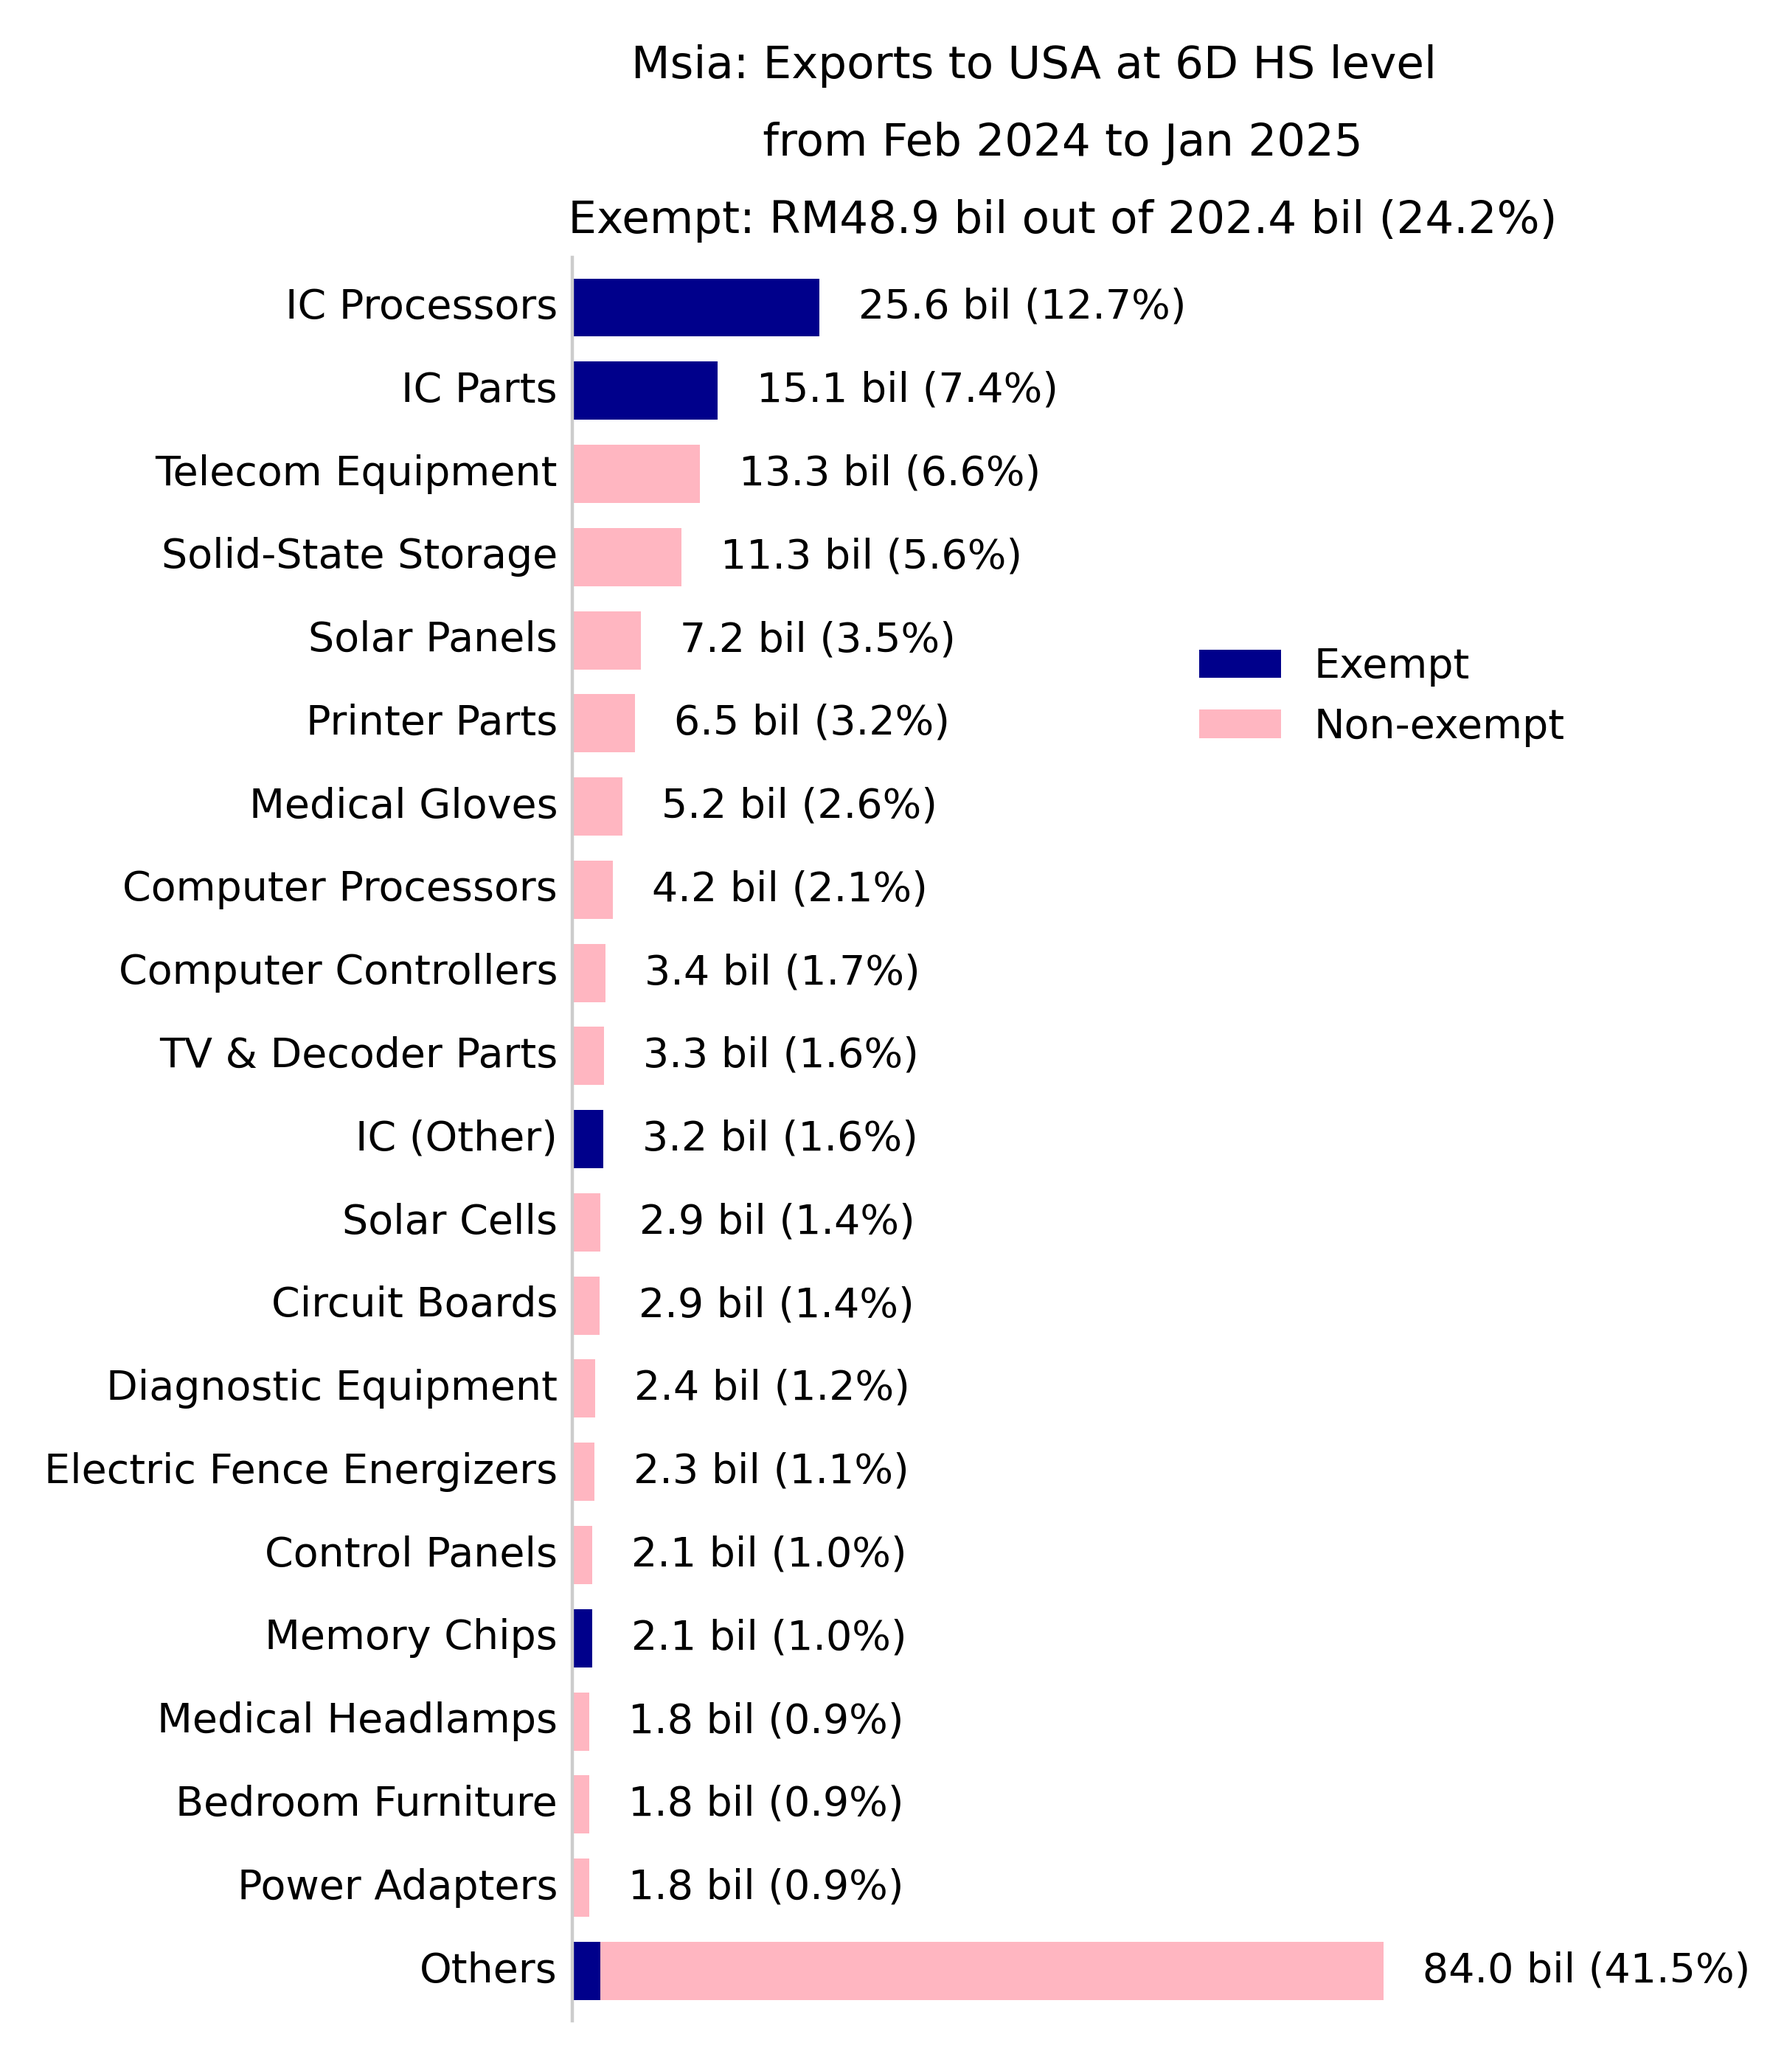
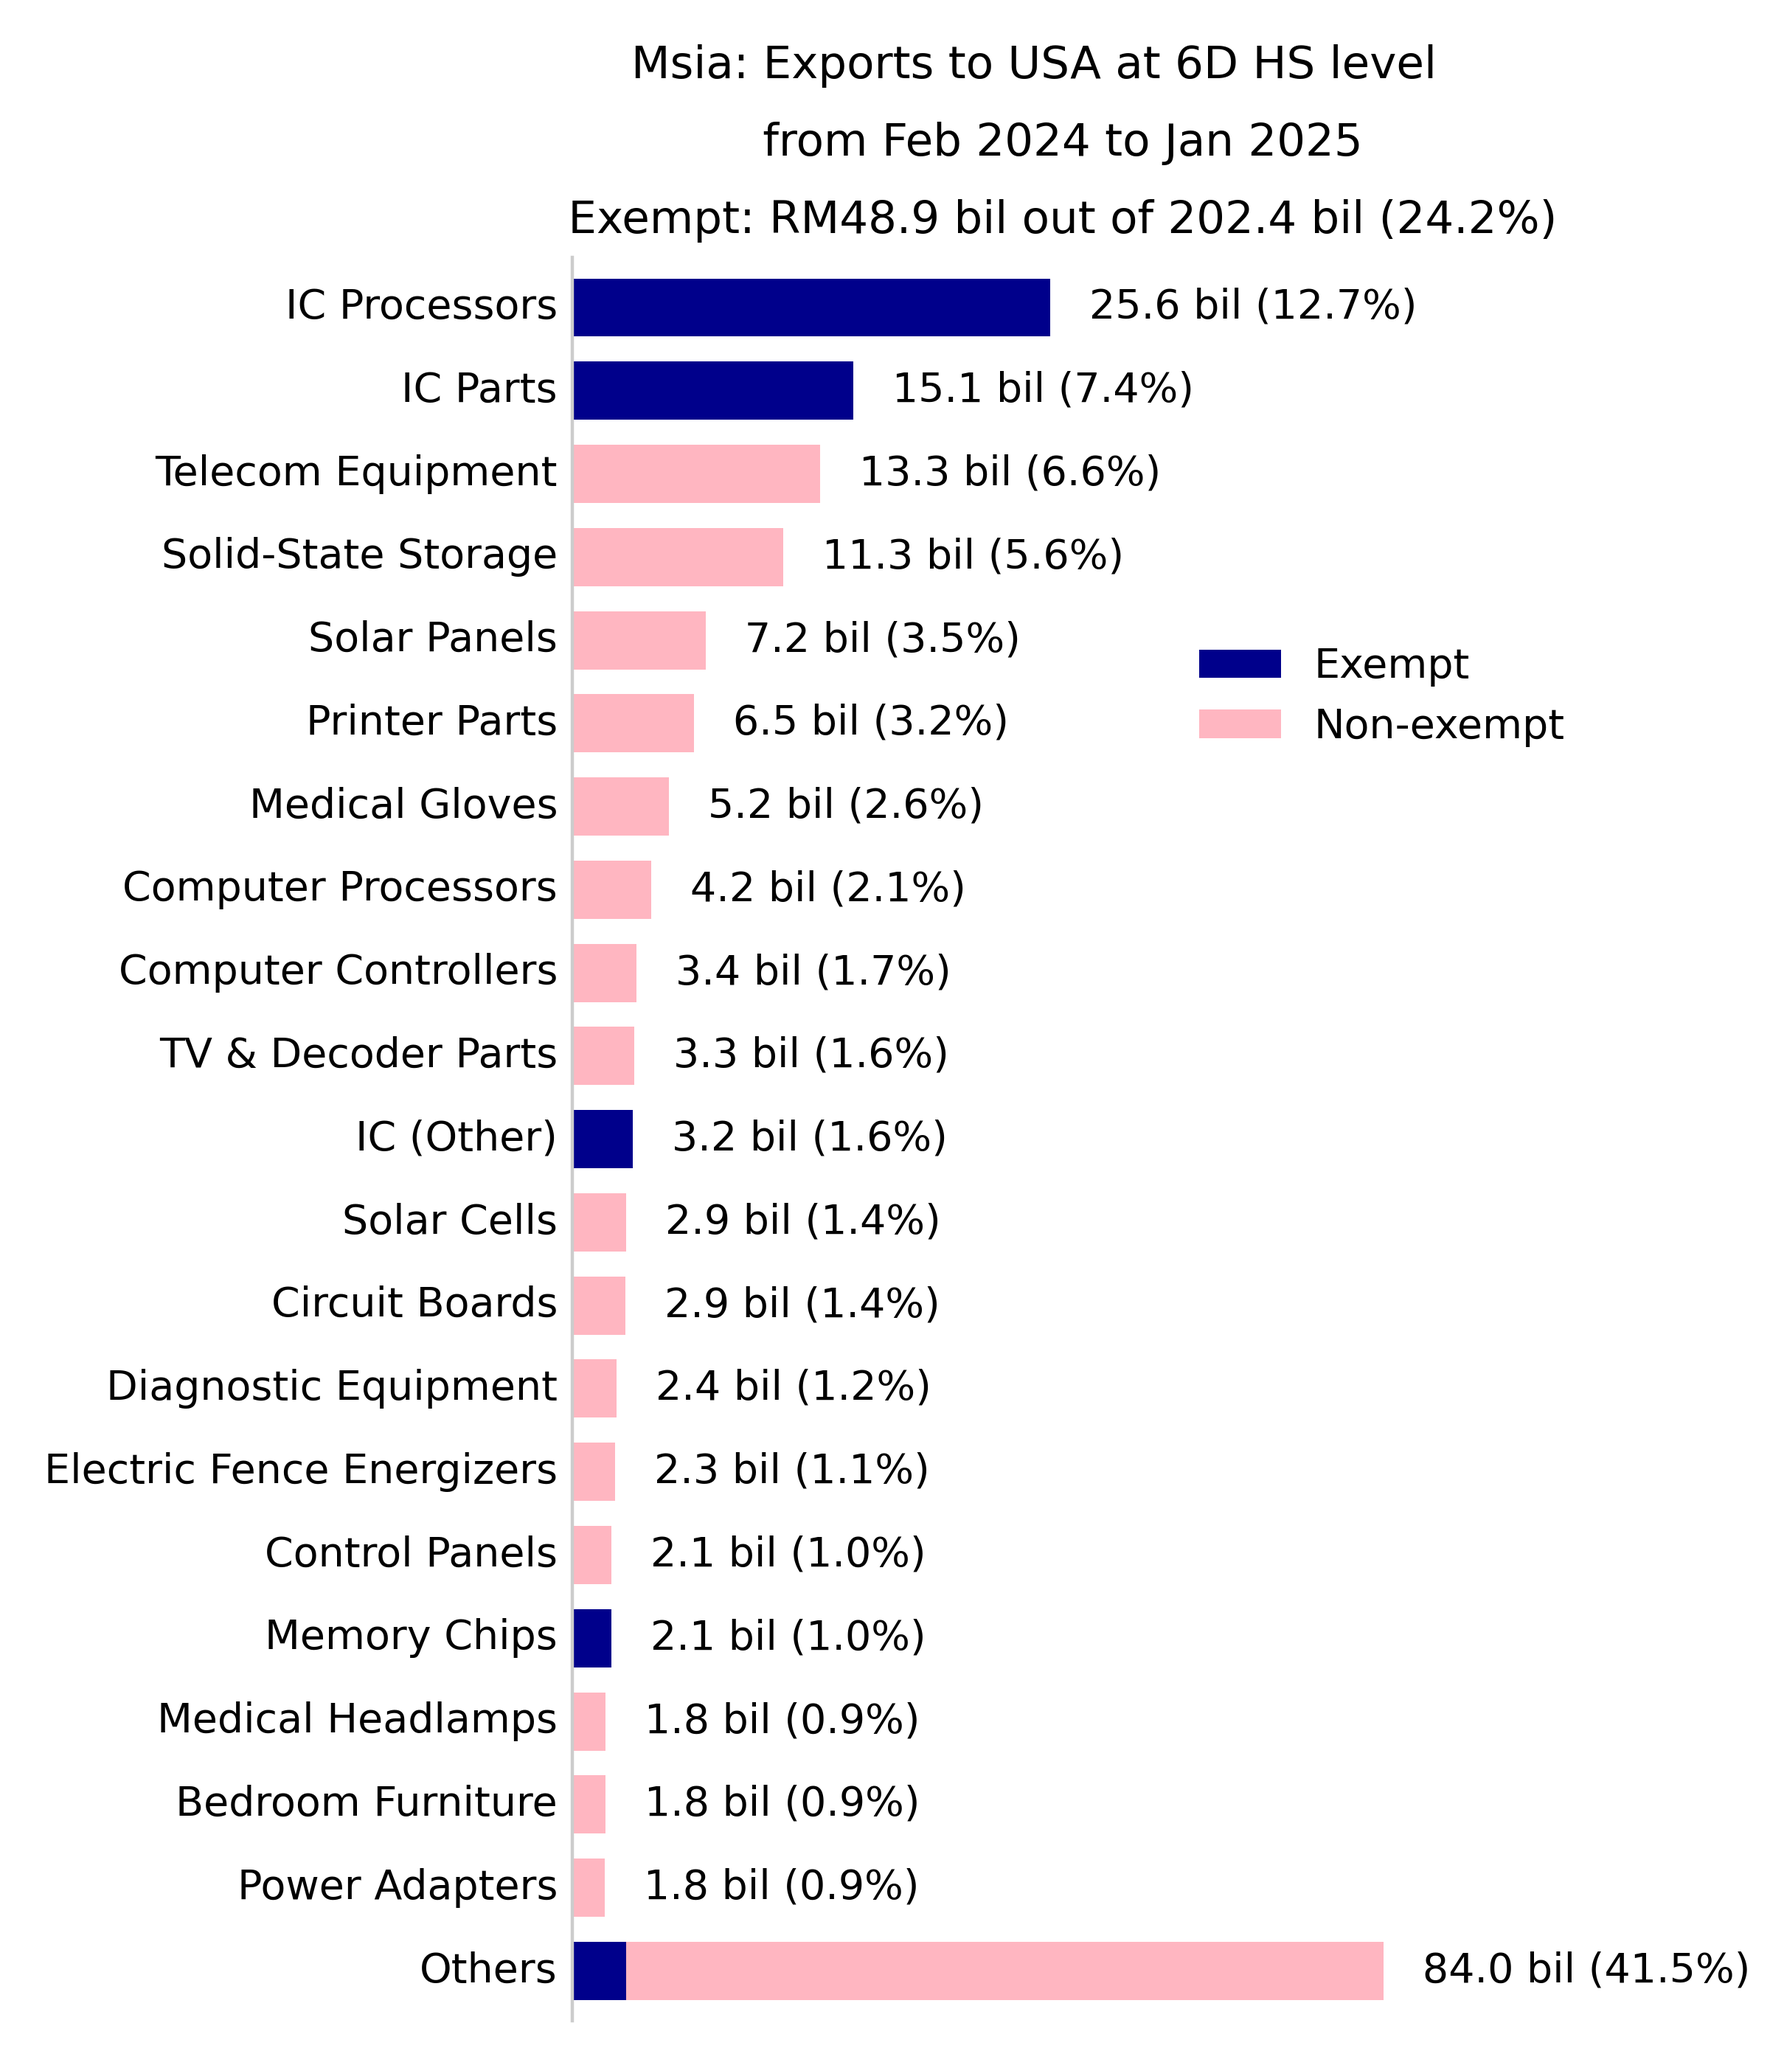
Improve chart formatting

Changed region(s): [[0.3125, 0.1243, 0.7812, 0.9632]]

diff --git a/2025-04-04_tariff/script.py b/2025-04-04_tariff/script.py
@@ -102,6 +102,8 @@ def make_bar_by_product(V_HS='hs_2d'):
     # Specifically to help plotting
     df = pd.concat([df[df.index == 'Others'],df[df.index != 'Others']],axis=0)
     df['non-exempt'] = df['non-exempt'].replace(0,0.000001)
+    if V_HS == 'hs_6d': 
+        df.loc[df.index == 'Others', 'non-exempt'] = df.loc[df.index == 'Others', 'non-exempt'] * 0.5
 
     plt.rcParams.update({'font.size': 10,
                         'font.family': 'sans-serif',
